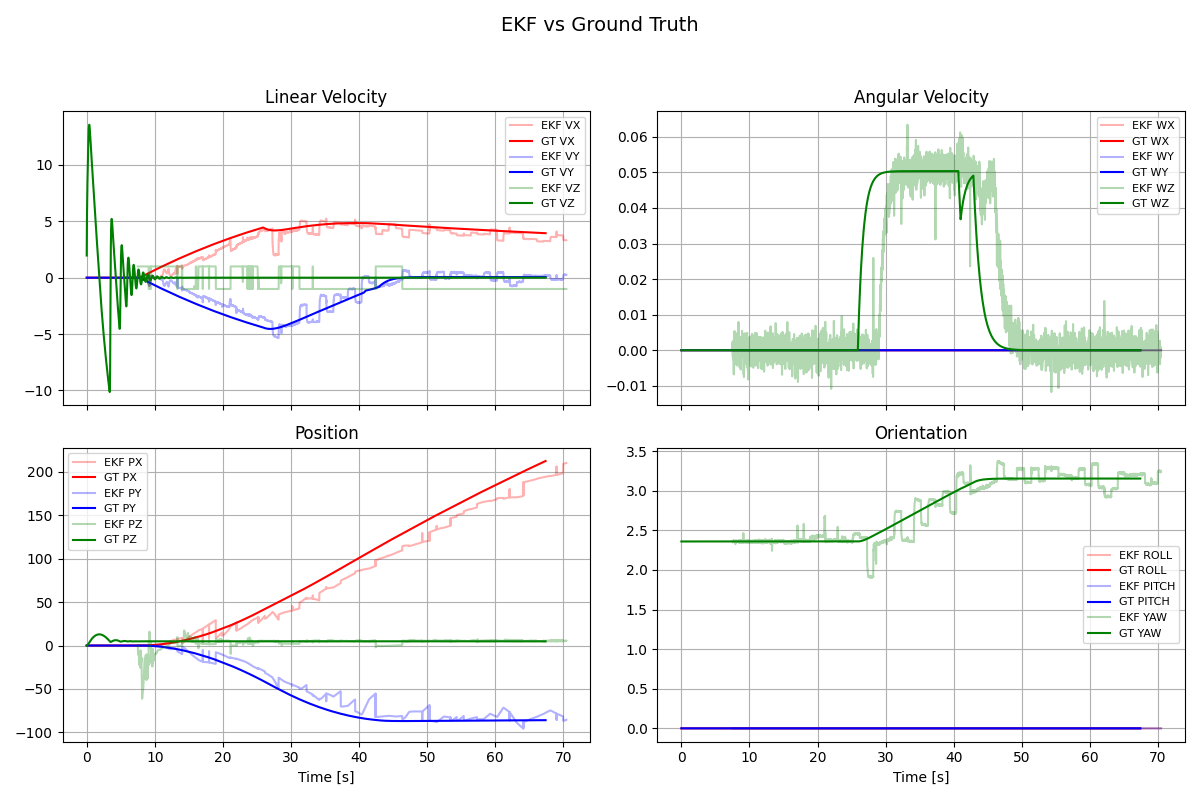
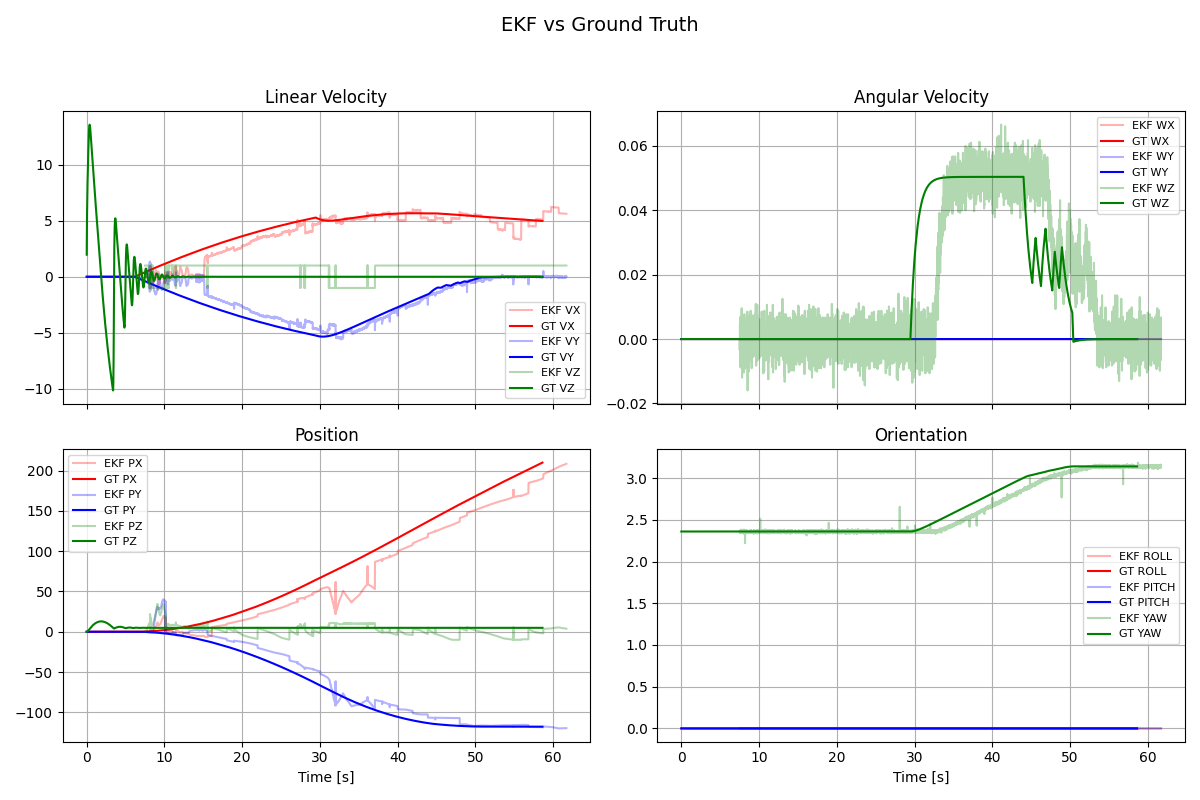
Good enough tuning, it works :) UKF could be better but don't have time to tune better

diff --git a/log/plot_ekf_vs_ukf.py b/log/plot_ekf_vs_ukf.py
@@ -1,0 +1,74 @@
+import os
+import pandas as pd
+import matplotlib.pyplot as plt
+import numpy as np
+
+UKF_LAG_SECONDS = 7.5
+EKF_LAG_SECONDS = 7.5
+
+# === Paths ===
+log_base = "log/data"
+latest_log_dir = sorted([d for d in os.listdir(log_base) if os.path.isdir(os.path.join(log_base, d))])[-1]
+truth_path = os.path.join(log_base, latest_log_dir, "x.csv")
+ukf_path = os.path.join(log_base, latest_log_dir, "ukf.csv")
+ekf_path = os.path.join(log_base, latest_log_dir, "ekf.csv")
+
+# === Load CSVs ===
+def load_df(path, lag=0.0):
+    df = pd.read_csv(
+        path,
+        header=None,
+        names=["timestamp", "vx", "vy", "vz", "wx", "wy", "wz", "px", "py", "pz", "roll", "pitch", "yaw"],
+        sep=",|\s+",
+        engine="python"
+    )
+    df["timestamp"] = pd.to_datetime(df["timestamp"])
+    df["time_sec"] = (df["timestamp"] - df["timestamp"].iloc[0]).dt.total_seconds() + lag
+    return df
+
+df_truth = load_df(truth_path)
+df_ukf = load_df(ukf_path, UKF_LAG_SECONDS)
+df_ekf = load_df(ekf_path, EKF_LAG_SECONDS)
+
+# === Interpolate to common timestamps ===
+common_time = np.intersect1d(df_truth["time_sec"], df_ukf["time_sec"])
+common_time = np.intersect1d(common_time, df_ekf["time_sec"])
+
+def interp(df, time_base):
+    return df.set_index("time_sec").reindex(time_base).interpolate().reset_index()
+
+df_truth = interp(df_truth, common_time)
+df_ukf = interp(df_ukf, common_time)
+df_ekf = interp(df_ekf, common_time)
+
+# === Absolute error ===
+def abs_err(df_est, df_gt, labels):
+    return {label: np.abs(df_est[label] - df_gt[label]) for label in labels}
+
+vel_labels = ["vx", "vy", "vz"]
+pos_labels = ["px", "py", "pz"]
+yaw_labels = ["wz", "yaw"]
+
+err_ukf = abs_err(df_ukf, df_truth, vel_labels + pos_labels + yaw_labels)
+err_ekf = abs_err(df_ekf, df_truth, vel_labels + pos_labels + yaw_labels)
+
+# === Plotting helper ===
+def plot_row_errors(fig_title, labels, yunits):
+    fig, axs = plt.subplots(len(labels), 1, figsize=(10, 3.5 * len(labels)), sharex=True)
+    if len(labels) == 1:
+        axs = [axs]
+    for i, label in enumerate(labels):
+        axs[i].plot(common_time, err_ukf[label], label="UKF", alpha=0.6)
+        axs[i].plot(common_time, err_ekf[label], label="EKF", alpha=0.6)
+        axs[i].set_ylabel(f"{label.upper()} Error [{yunits[i]}]")
+        axs[i].legend(fontsize=8)
+        axs[i].grid(True)
+    axs[-1].set_xlabel("Time [s]")
+    fig.suptitle(fig_title, fontsize=14)
+    plt.tight_layout(rect=[0, 0, 1, 0.95])
+    plt.show()
+
+# === Plotting ===
+plot_row_errors("Velocity Absolute Error", vel_labels, ["m/s"] * 3)
+plot_row_errors("Position Absolute Error", pos_labels, ["m"] * 3)
+plot_row_errors("Yaw Velocity & Angle Absolute Error", ["wz", "yaw"], ["rad/s", "rad"])

diff --git a/src/state_estimators.rs b/src/state_estimators.rs
@@ -380,35 +380,6 @@ fn angle_between_points(front: Vector3<f32>, back: Vector3<f32>) -> f32 {
     angle
 }
 
-/// Print any matrix (SMatrix) nicely with fixed formatting
-///
-/// # Parameters:
-/// - `name`: Matrix label to print before the data
-/// - `matrix`: The matrix to print, supports any dimensions R×C
-///
-/// # Output:
-/// Example for 3x2:
-/// A = [
-///   [   1.0000000,   2.0000000, ],
-///   [   3.0000000,   4.0000000, ],
-///   [   5.0000000,   6.0000000, ],
-/// ]
-fn print_matrix<T: std::fmt::Display, const R: usize, const C: usize>(
-    name: &str,
-    matrix: &nalgebra::SMatrix<T, R, C>
-) {
-    println!("{} = [", name);
-    for r in 0..R {
-        print!("  [");
-        for c in 0..C {
-            // Print each value with consistent spacing
-            print!("{:>12.8}, ", matrix[(r, c)]);
-        }
-        println!("],");
-    }
-    println!("]");
-}
-
 
 
 fn main() {
